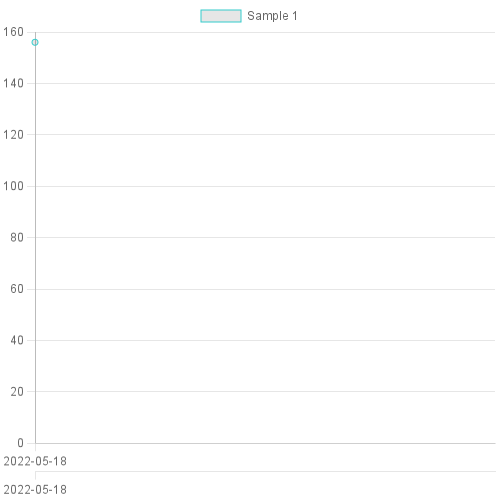
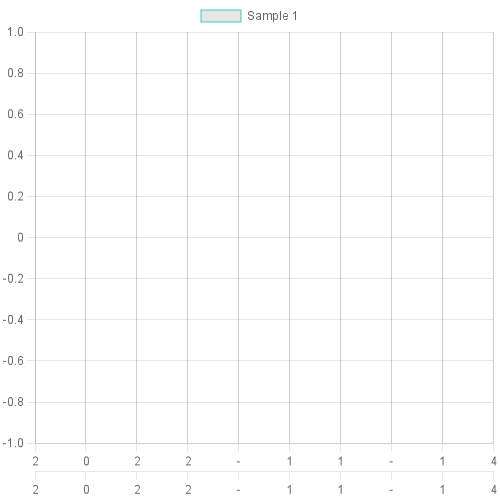
metabase_commit

diff --git a/metabase.js b/metabase.js
@@ -314,15 +314,14 @@ try{
   const collectionArray = await res.json()
 
   for (const items of collectionArray){
-   let timeStamp=items.timestamp
-   let  values=items.value
+   
     const configuration = {
       type: 'line',   // for line chart
       data: {
-          labels: [timeStamp],
+          labels: items.timestamp,
           datasets: [{
               label: "Sample 1",
-              data: [values],
+              data: items.values,
               fill: false,
               borderColor: ['rgb(51, 204, 204)'],
               borderWidth: 1,
@@ -344,7 +343,9 @@ try{
               }
           }
       }
-  } 
+  }  
+
+  console.log(configuration)
 
     const dataUrl = await chartJSNodeCanvas.renderToDataURL(configuration);
     const base64Image = dataUrl
@@ -357,7 +358,6 @@ try{
             console.log(err);
         }
     });
-    return dataUrl
 
   }
 
